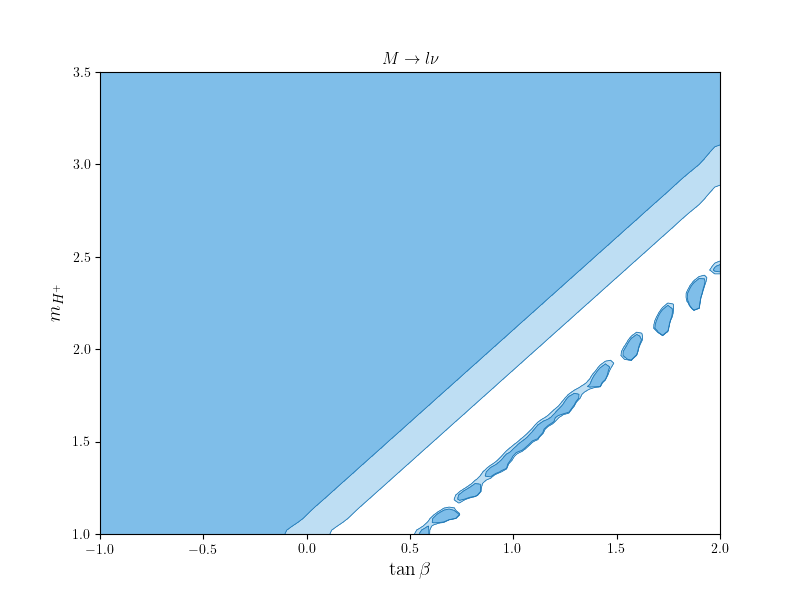
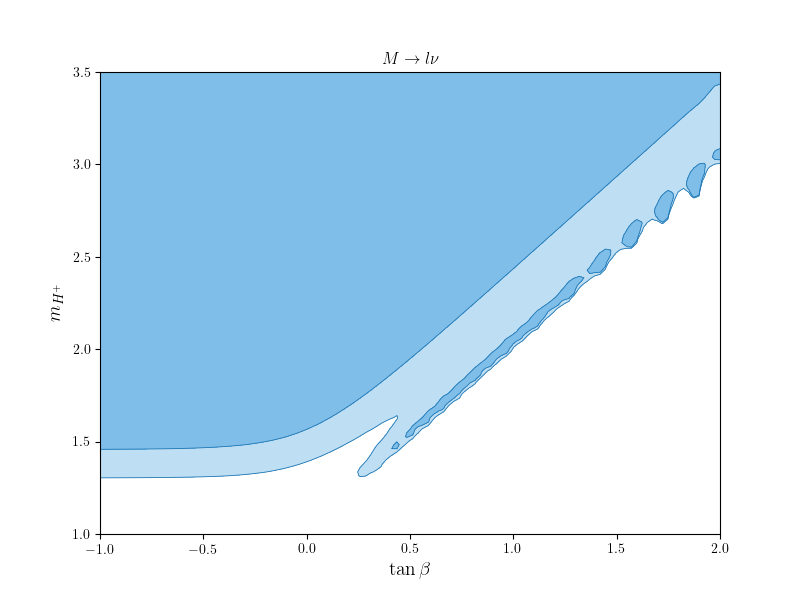
actually added the other leptonics

diff --git a/repl-glob.py b/repl-glob.py
@@ -28,6 +28,10 @@ mH0 = 1500 # mass of heavy neutral Higgs, GeV
 my_obs = [
     # what observables are we considering in the fit
     'BR(B+->taunu)',
+    'BR(B+->munu)',
+    'BR(D+->munu)',
+    'BR(Ds->munu)',
+    'BR(Ds->taunu)',
 #    'BR(B->Xsgamma)',
 #    'BR(B0->mumu)',
 #    'BR(Bs->mumu)',
